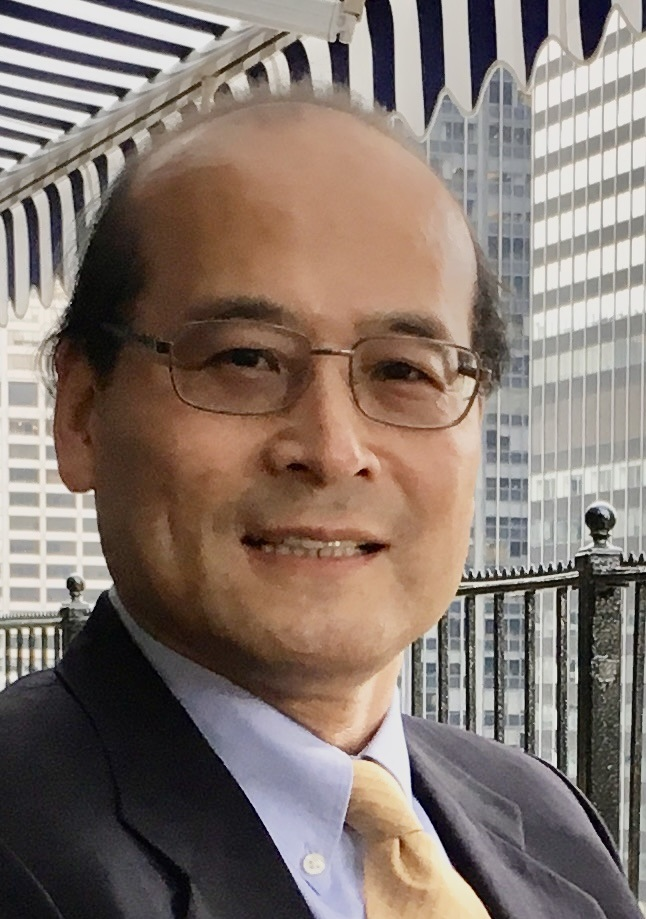
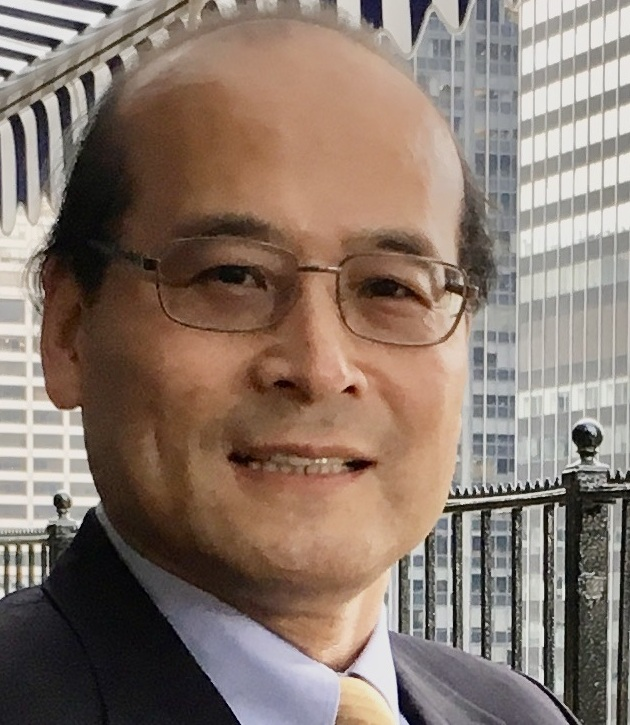
Fix for board member update

diff --git a/index.html b/index.html
@@ -799,7 +799,7 @@
                 <!-- Figure Image -->
                 <div
                   class="mx-auto g-width-130 g-height-130 g-brd-around g-brd-5 g-brd-white rounded-circle g-mb-15">
-                  <img class="g-width-120 g-height-120 rounded-circle" src="./custom/bod/lihong.jpg"
+                  <img class="g-width-120 g-height-120 rounded-circle" src="./custom/bod/jessieliu.jpg"
                     alt="Image Description">
                 </div>
                 <!-- End Figure Image -->
